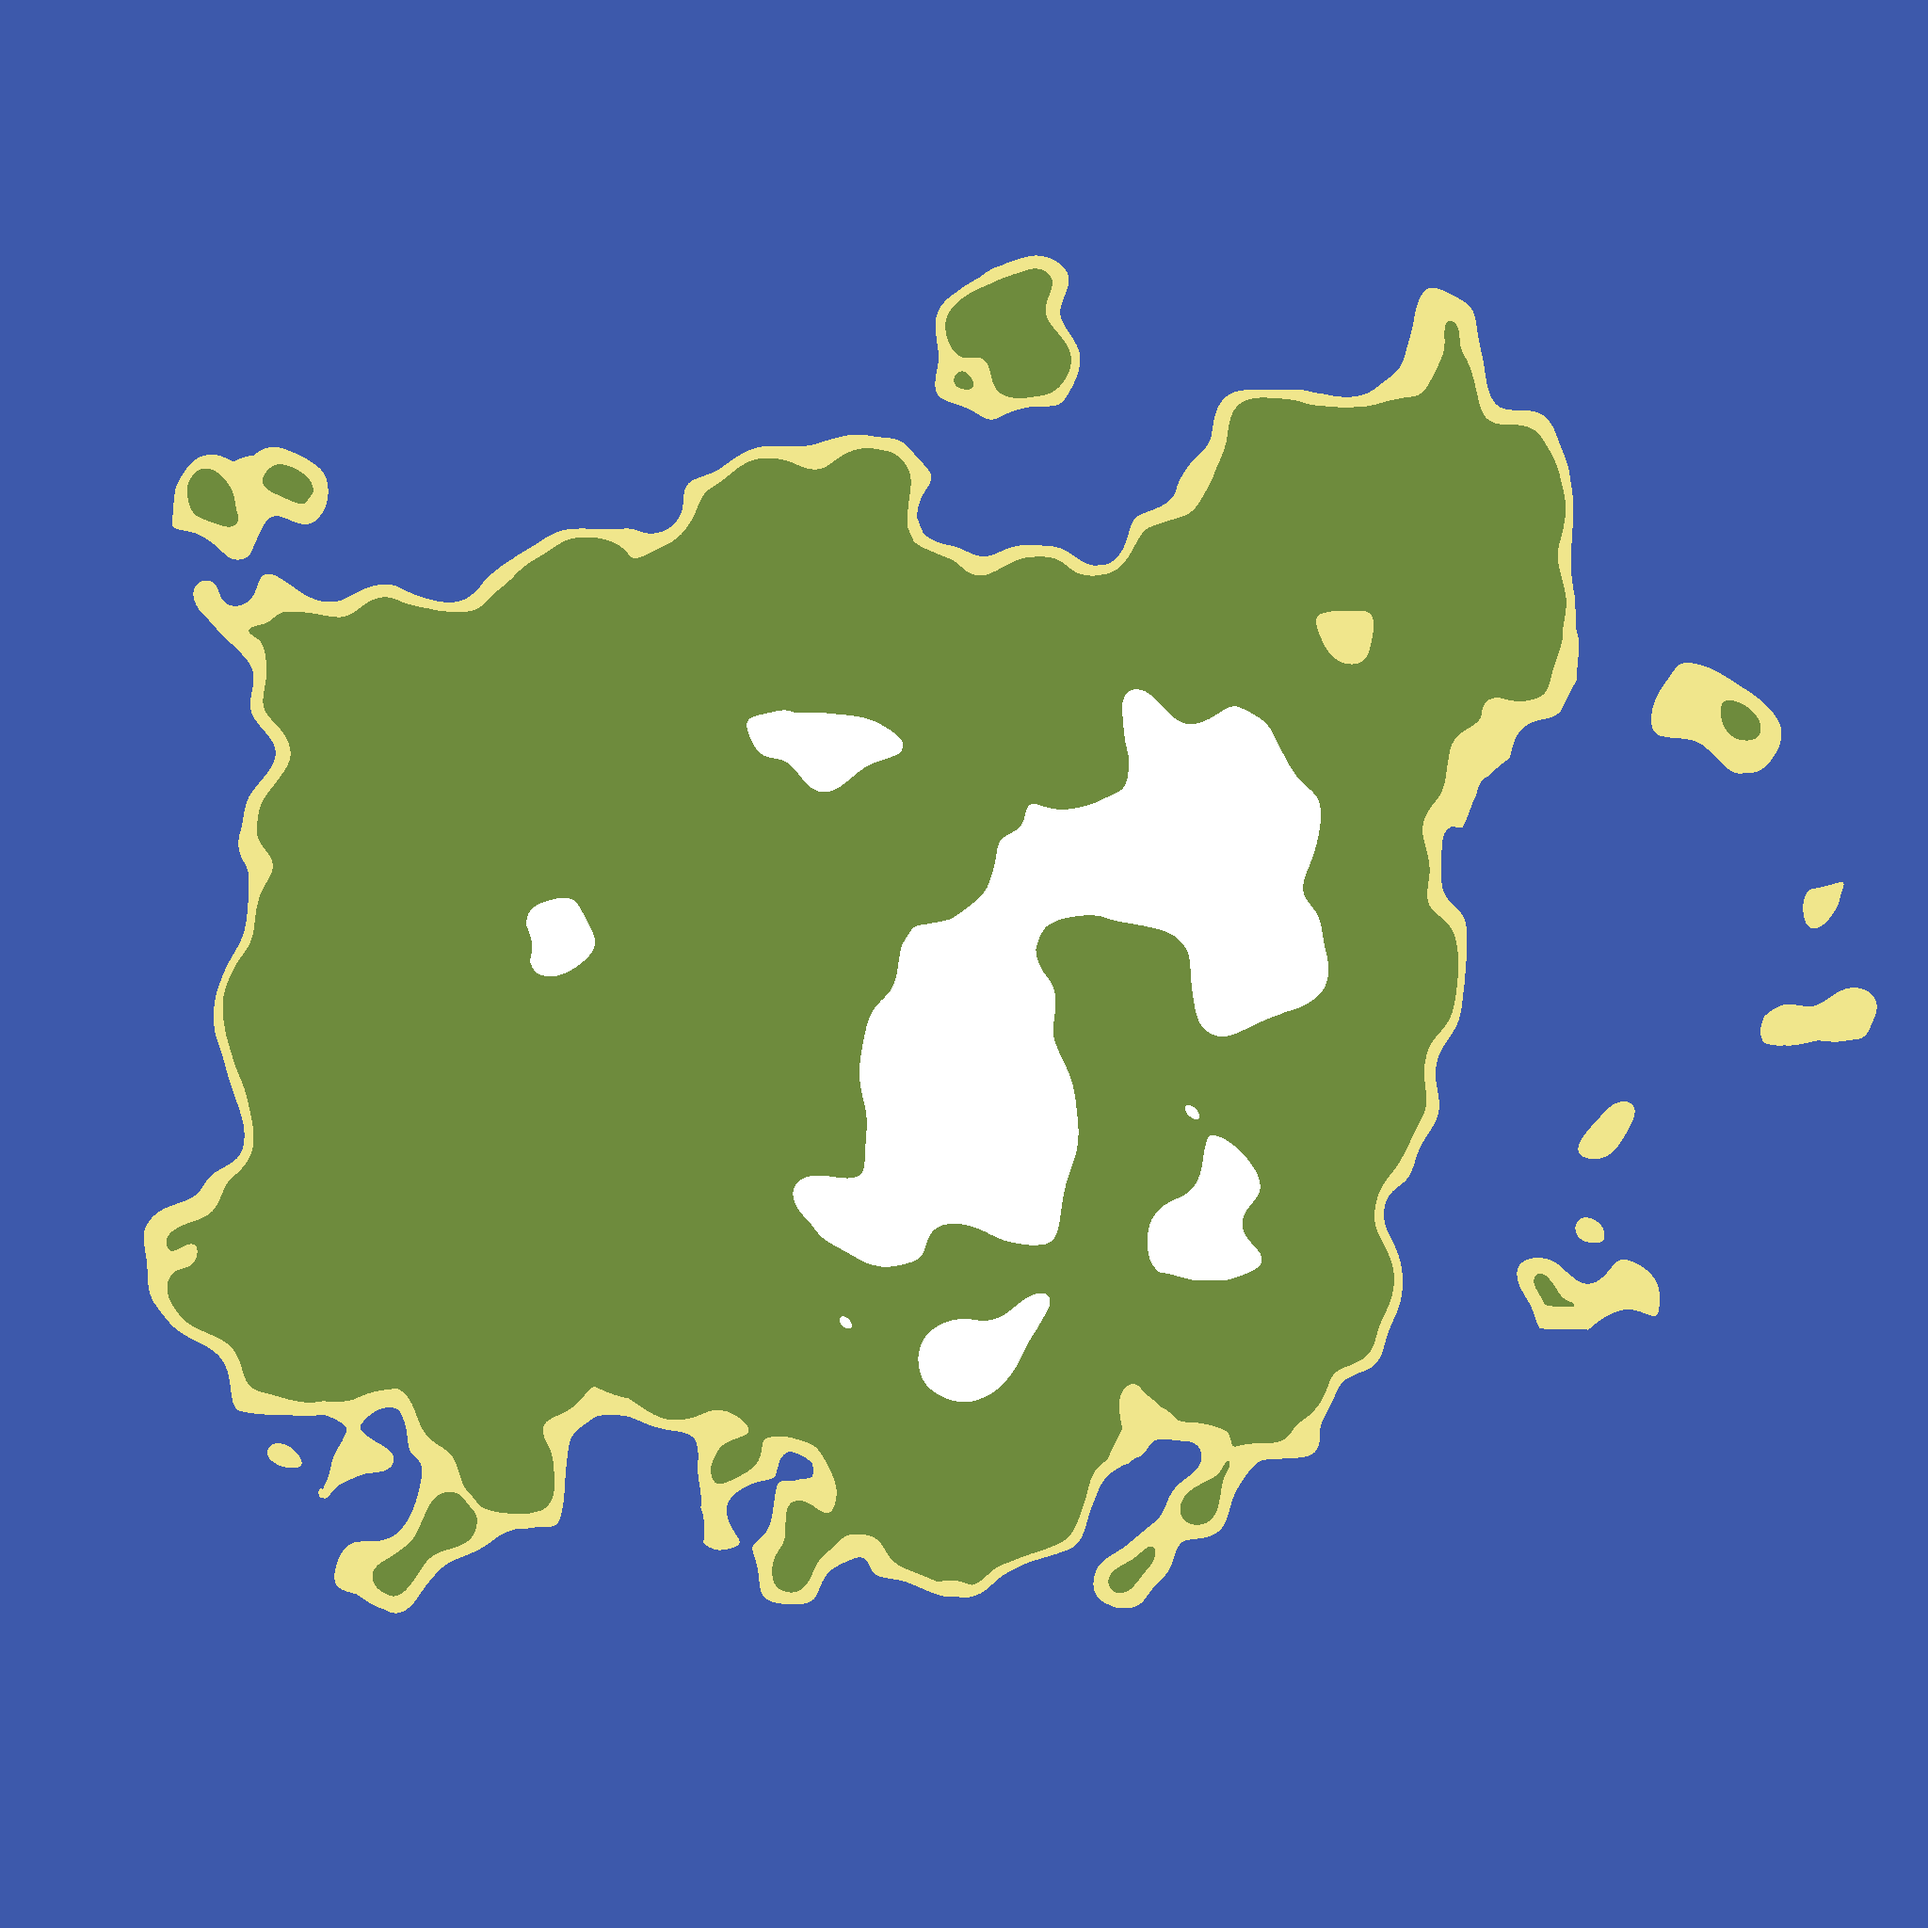
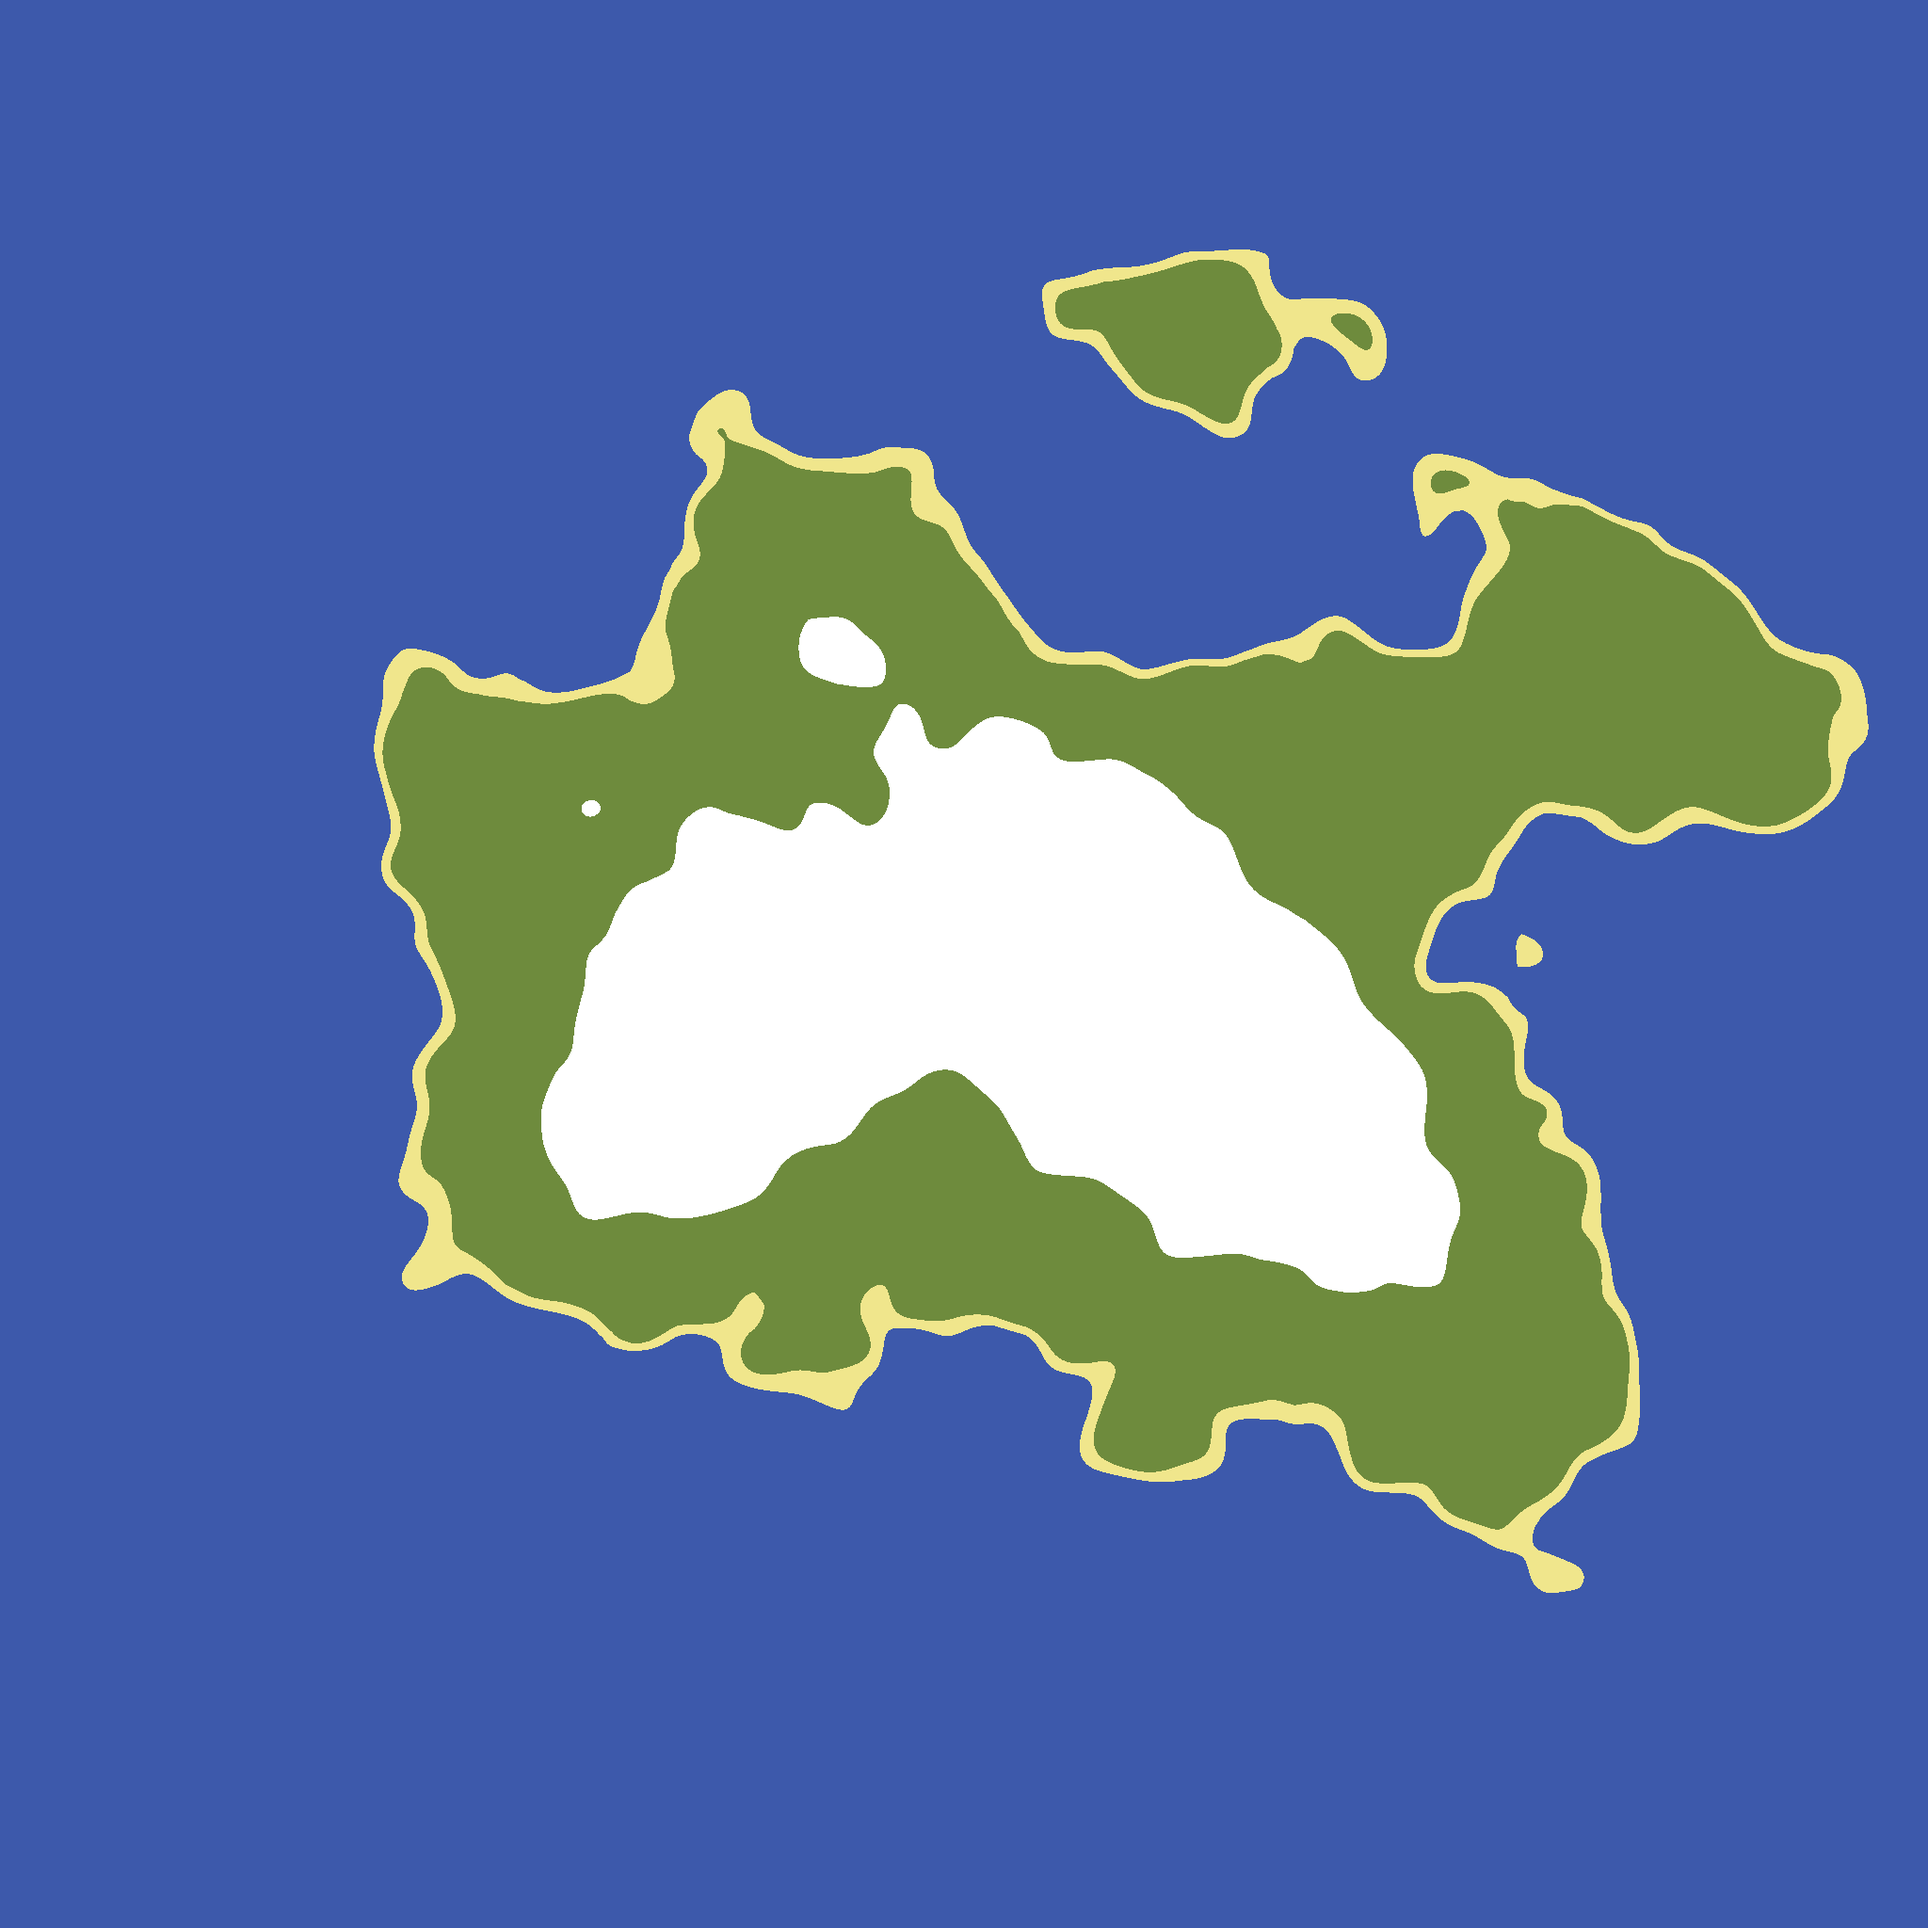
More generation algorithms!

Changed region(s): [[0.0625, 0.125, 0.9688, 0.8438]]

diff --git a/src/generation/GenTest.java b/src/generation/GenTest.java
@@ -26,13 +26,19 @@ public class GenTest {
 		System.out.println("Directory: " + directory);
 		BufferedImage image = new BufferedImage(size, size, BufferedImage.TYPE_INT_RGB);
 		BufferedImage colored = new BufferedImage(size, size, BufferedImage.TYPE_INT_RGB);
-
+		BufferedImage binary = new BufferedImage(size, size, BufferedImage.TYPE_INT_RGB);
+		BufferedImage flood = new BufferedImage(size, size, BufferedImage.TYPE_INT_RGB);
+		BufferedImage trimmed = new BufferedImage(size, size, BufferedImage.TYPE_INT_RGB);
+		BufferedImage mountainMap = new BufferedImage(size, size, BufferedImage.TYPE_INT_RGB);
 
 		int a = 255;
 
-		float[][] map = PerlinMap();
+		float[][] map = LandMapP();
+		float[][] binaryMap = new float[size][size];
+		float[][] floodMap = new float[size][size];
 
-
+		float[][] mtns = HeightMap.PerlinNoise(size, size, size/9, size/9, seed*seed, 0.8f);
+	//	mtns = HeightMap.Smooth(HeightMap.Smooth(HeightMap.Smooth(mtns)));
 
 		for (int i = 0; i < size; i++) {
 			for (int j = 0; j < size; j ++) {
@@ -52,26 +58,32 @@ public class GenTest {
 				color = (a << 24) | (r << 16) | (g << 8) | b;
 				image.setRGB(i, j, color);
 				
-				
+
 				
 				if (map[i][j] == 0) {
 					color = (a << 24) | (61 << 16) | (89 << 8) | 171; //water
-					map[i][j] = 0;
 				} else if (map[i][j] > 0.2) {
 					color = (a << 24) | (255 << 16) | (255 << 8) | 255; //mountains
-					map[i][j] = .5f;
+					binaryMap[i][j] = 1;
 				} else if (map[i][j] < 0.02) {
 					color = (a << 24) | (240 << 16) | (230 << 8) | 140; //beach
-					map[i][j] = .25f;
+					binaryMap[i][j] = 1;
 				} else {
 					color = (a << 24) | (110 << 16) | (139 << 8) | 61; //land
-					map[i][j] = 0.5f;
+					binaryMap[i][j] = 1;
 				}
 				
 				
 				colored.setRGB(i, j, color);
-				
-				
+				binary.setRGB(i, j, (int)(2147483647*binaryMap[i][j]));
+
+				c = (int)((map[i][j] * 2 * map[i][j] * map[i][j] * 2) * 255f * binaryMap[i][j]);
+
+				r = c;
+				g = c;
+				b = c;
+				color = (a << 24) | (r << 16) | (g << 8) | b;
+				mountainMap.setRGB(i, j, color);
 				
 
 				//step through the island and check for connectivity
@@ -89,10 +101,39 @@ public class GenTest {
 
 			}
 		}
+		
+		HeightMap.FloodFill(binaryMap, size/2, size/2, floodMap);
+		for (int i = 0; i < size; i++) {
+			for (int j = 0; j < size; j ++) {
+				map[i][j] *= floodMap[i][j];
+				int color = 0;
+				
+				if (map[i][j] == 0) {
+					color = (a << 24) | (61 << 16) | (89 << 8) | 171; //water
+				} else if (map[i][j] > 0.2) {
+					color = (a << 24) | (255 << 16) | (255 << 8) | 255; //mountains
+				} else if (map[i][j] < 0.02) {
+					color = (a << 24) | (240 << 16) | (230 << 8) | 140; //beach
+				} else {
+					color = (a << 24) | (110 << 16) | (139 << 8) | 61; //land
+				}
+				
+				trimmed.setRGB(i, j, color);
+
+				
+				
+				flood.setRGB(i, j, (int)(2147483647*floodMap[i][j]));
+			}
+		}
 
 		try {
 			ImageIO.write(image, "png", new File(directory, "WorldGen.png"));
 			ImageIO.write(colored, "png", new File(directory, "Colors.png"));
+			ImageIO.write(binary, "png", new File(directory, "Binary.png"));
+			ImageIO.write(flood, "png", new File(directory, "FloodFill.png"));
+			ImageIO.write(trimmed, "png", new File(directory, "TrimmedMap.png"));
+			ImageIO.write(mountainMap, "png", new File(directory, "MountainMap.png"));
+
 		} catch (IOException e) {
 			e.printStackTrace();
 		}
@@ -101,7 +142,7 @@ public class GenTest {
 	}
 	
 	
-	private float[][] PerlinMap() {
+	private float[][] LandMapP() {
 		float[][] map = new float[size][size];
 		int octavex = size/6;
 		int octavey = size/6;

diff --git a/src/generation/HeightMap.java b/src/generation/HeightMap.java
@@ -1,5 +1,7 @@
 package generation;
 
+import java.util.LinkedList;
+import java.util.Queue;
 import java.util.Random;
 
 public class HeightMap {
@@ -82,6 +84,47 @@ public class HeightMap {
 	}
 
 
+	/* RECURSIVE FLOOD FILL ALGORITHM */
+	public static void FloodFill(float[][] original, int x, int y, float[][] target) {
+		int[] position = {x, y}; //current quare
+		
+		Queue<int[]> q = new LinkedList<int[]>();
+		q.add(position);
+		
+		while (!q.isEmpty()) {
+			int[] next;
+			position = q.poll();
+			x = position[0]; y = position[1];
+			if (original[x][y] > 0.5f && target[x][y] != 1) { //if target node hasn't been filled
+				target[x][y] = 1; //set target node to filled
+				//check neighbors
+				if (original[x+1][y] > 0.5 && target[x+1][y] != 1) { // if left node is valid
+					next = new int[] {x+1, y};
+					q.add(next);
+				}if (original[x-1][y] > 0.5 && target[x-1][y] != 1) { // if left node is valid
+					next = new int[] {x-1, y};
+					q.add(next);
+				}if (original[x][y+1] > 0.5 && target[x][y+1] != 1) { // if left node is valid
+					next = new int[] {x, y+1};
+					q.add(next);
+				}if (original[x][y-1] > 0.5 && target[x][y-1] != 1) { // if left node is valid
+					next = new int[] {x, y-1};
+					q.add(next);
+				}
+				
+				
+				
+			}
+			
+			
+			
+		}
+		
+
+		
+	}
+	
+
 	/* SMOOTHING ALGORITHM*/
 	public static float[][] Smooth(float[][] original) {
 		int width = original.length; int depth = original[0].length;
@@ -112,17 +155,17 @@ public class HeightMap {
 		float[][] grad = new float[size][size];
 		for (int i = 0; i < size; i++) {
 			for (int j = 0; j < size; j++) {
-				
+
 				double dx = i - size/2.0;
 				double dy = j - size/2.0;
-				
+
 				float dist = (float)Math.sqrt(dx*dx + dy*dy);
 				float val = 1 - Math.min((dist/size), 1);
 
 				if (dist >= size/2f - 5) {
 					val = 0;
 				}
-				
+
 				grad[i][j] = val;
 
 			}
